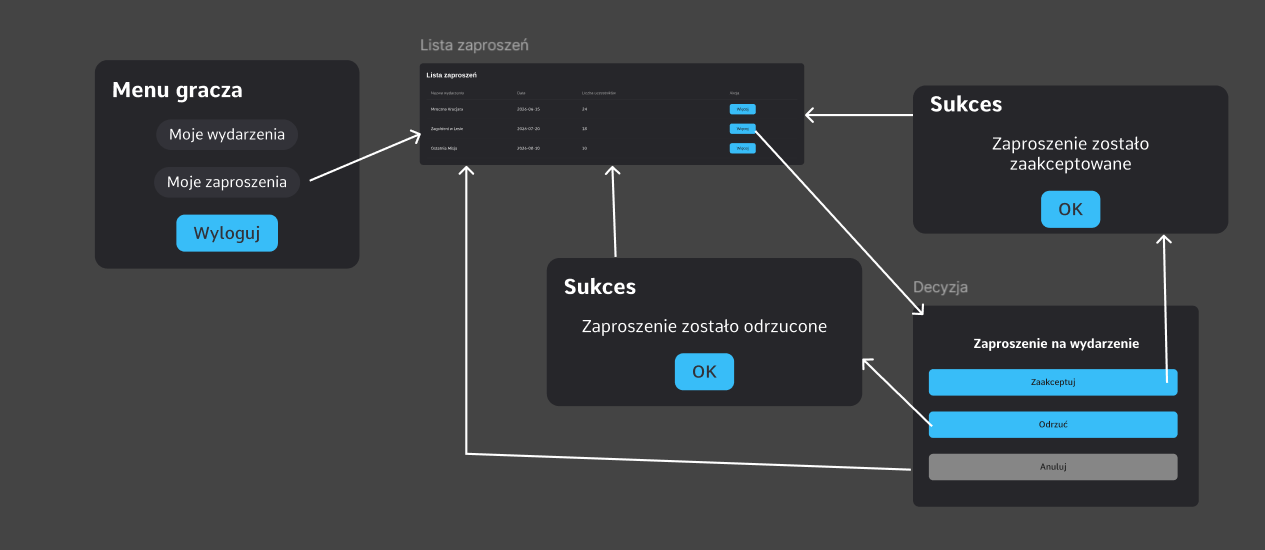
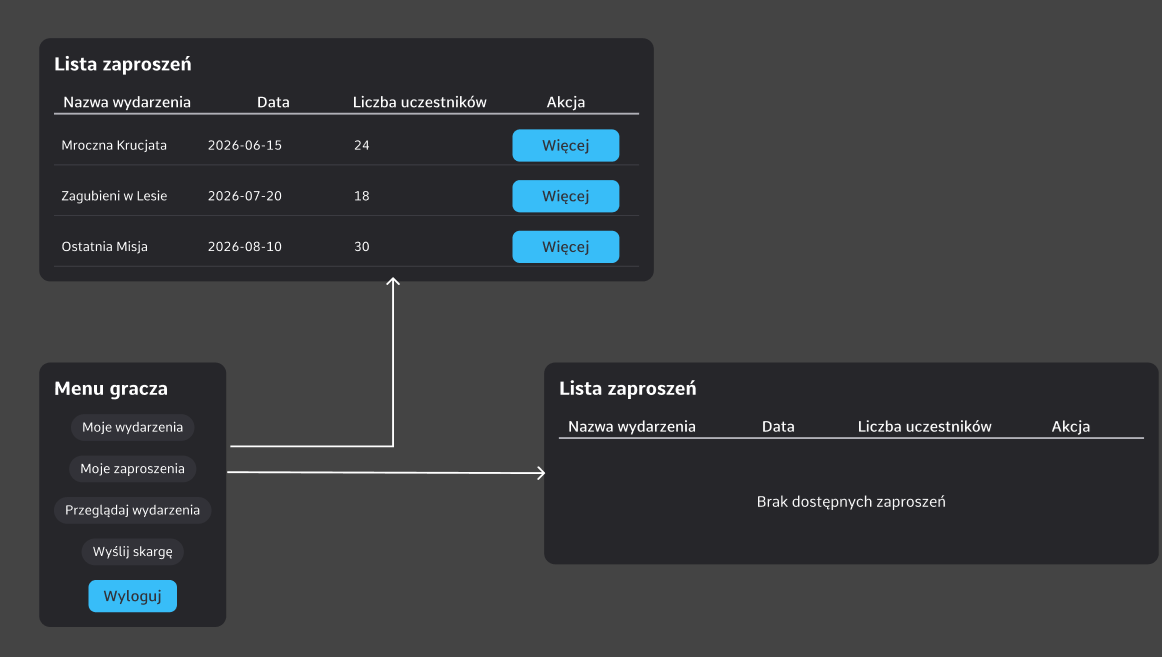
Poprawkki do PU43, PU49

diff --git a/README.md b/README.md
@@ -2577,57 +2577,56 @@ Warunek końcowy: nowy czujnik nie został zarejestrowany dla danej gry
 - Wydanie: 1.0
 - Aktor główny: Twórca gry
 - Warunek początkowy: Twórca gry jest zalogowany w systemie i posiada uprawnienia do tworzenia gier.
-- Warunek końcowy (sukces): Nowa gra zostaje zapisana w systemie ze statusem „Oczekuje na weryfikację", a gra jest widoczna na liście gier twórcy.
+- Warunek końcowy (sukces): Nowa gra zostaje zapisana w systemie ze statusem „Oczekuje na weryfikację".
 
 **Scenariusz główny**
 
-1. Twórca gry wybiera opcję **„Utwórz nową grę”** w Panelu Twórcy.
-2. System wyświetla główny formularz zarządzania grą: **„Definicja gry”**.
-3. Twórca wybiera opcję **„Edytuj podstawowe parametry”**.
-4. System wyświetla formularz **„Podstawowe parametry gry”**.
-5. Twórca wypełnia wymagane pola i klika przycisk **„Zapisz”**.
-6. System waliduje dane i wyświetla komunikat **„Poprawnie zapisano parametry”**.
-7. Twórca klika przycisk **„OK”** na komunikacie sukcesu; system powraca do widoku **„Definicja gry”**.
-8. Twórca klika przycisk **„Zapisz i wyślij”**.
-9. System zapisuje grę ze statusem „Oczekuje na weryfikację”.
-10. System wyświetla komunikat **„Poprawnie zapisano grę i wysłano do recenzenta”**.
-11. Twórca klika przycisk **„OK”**; system przekierowuje go do widoku **„Lista gier”**, gdzie nowa gra jest widoczna.
+1. Twórca gry wybiera opcję **„Utwórz nową grę"** w Panelu Twórcy.
+2. System wyświetla główny formularz zarządzania grą: **„Definicja gry"**.
+3. Twórca wybiera opcję **„Edytuj podstawowe parametry"**.
+4. System wyświetla formularz **„Podstawowe parametry gry"**.
+5. Twórca wypełnia wymagane pola i klika przycisk **„Zapisz"**.
+6. System waliduje dane i wyświetla komunikat **„Poprawnie zapisano parametry"**.
+7. Twórca klika przycisk **„OK"**.
+8. System powraca do widoku **„Definicja gry"**.
+9. Twórca klika przycisk **„Zapisz i wyślij"**.
+10. System zapisuje grę ze statusem „Oczekuje na weryfikację" i wyświetla komunikat **„Poprawnie zapisano grę i wysłano do recenzenta"**.
+11. Twórca klika przycisk **„OK"**.
+12. System przekierowuje twórcę do widoku **„Panel Twórcy"**.
 
 **Scenariusz alternatywny A: Błędne dane w parametrach**
 
 5a. System stwierdza, że dane w formularzu parametrów są nieprawidłowe lub niekompletne.
-1. System wyświetla komunikat **„Błąd: Podane dane są błędne”**.
-2. Twórca klika przycisk **„OK”**.
+1. System wyświetla komunikat **„Błąd: Podane dane są błędne"**.
+2. Twórca klika przycisk **„OK"**.
 3. Formularz parametrów pozostaje otwarty, a błędne pola zostają wyróżnione.
 4. Scenariusz wraca do kroku 5 scenariusza głównego.
 
 **Scenariusz alternatywny B: Definiowanie elementów szczegółowych (Czujniki)**
 
-7a. Twórca chce zdefiniować czujniki dla gry.
-1. Twórca wybiera opcję **„Dodaj nowy czujnik”** w widoku „Definicja gry”.
-2. System wywołuje **PU50: Zdefiniowanie czujnika**.
-3. Po zakończeniu definiowania czujnika system powraca do widoku **„Definicja gry”**.
-4. Scenariusz wraca do kroku 8 scenariusza głównego.
+8b. Twórca wybiera opcję **„Zdefiniuj akcję"** w widoku „Definicja gry".
+1. System wywołuje **PU50: Zdefiniowanie czujnika**.
+2. Po zakończeniu definiowania czujnika system powraca do widoku **„Definicja gry"**.
+3. Scenariusz wraca do kroku 9 scenariusza głównego.
 
 **Scenariusz alternatywny C: Definiowanie elementów szczegółowych (Scenariusz)**
 
-7b. Twórca chce edytować zadania lub mapę w scenariuszu.
-1. Twórca wybiera opcję **„Edytuj scenariusz gry”** w widoku „Definicja gry”.
-2. System wywołuje **PU56: Wyświetlenie scenariusza gry w edytorze**.
-3. Po zakończeniu edycji scenariusza system powraca do widoku **„Definicja gry”**.
-4. Scenariusz wraca do kroku 8 scenariusza głównego.
+8c. Twórca wybiera opcję **„Edytuj scenariusz gry"** w widoku „Definicja gry".
+1. System wywołuje **PU56: Wyświetlenie scenariusza gry w edytorze**.
+2. Po zakończeniu edycji scenariusza system powraca do widoku **„Definicja gry"**.
+3. Scenariusz wraca do kroku 9 scenariusza głównego.
 
 **Scenariusz alternatywny D: Zapis lokalny (bez wysyłki do recenzji)**
 
-8a. Twórca klika przycisk **„Zapisz”**.
-1. System zapisuje grę ze statusem „W edycji”.
-2. System wyświetla komunikat **„Poprawnie zapisano grę”**.
-3. Twórca klika przycisk **„OK”**; system przekierowuje go do widoku **„Lista gier”**.
+9d. Twórca klika przycisk **„Zapisz"**.
+1. System zapisuje grę ze statusem „W edycji" i wyświetla komunikat **„Poprawnie zapisano grę"**.
+2. Twórca klika przycisk **„OK"**.
+3. System przekierowuje twórcę do widoku **„Panel Twórcy"**.
 
 **Scenariusz alternatywny E: Anulowanie tworzenia gry**
 
-(W dowolnym momencie przebywania w widoku „Definicja gry”) Twórca klika przycisk **„Anuluj”**.
-1. System zamyka formularz i przekierowuje twórcę do widoku **„Panel Twórcy”** bez zapisywania żadnych zmian.
+(W dowolnym momencie przebywania w widoku „Definicja gry") Twórca klika przycisk **„Anuluj"**.
+1. System przekierowuje twórcę do widoku **„Panel Twórcy"** bez zapisywania żadnych zmian.
 
 **Scenopis**
 ![](./scenopisy/PU49_Zdefiniowanie_gry.png)
@@ -2766,41 +2765,21 @@ final: failure
 9a2.1 Twórca gry wybiera opcję zapisu z wyjściem.
 9a2.2 System skacze do kroku 7 scenariusza głównego, ale mapa gry pozostaje oznaczona jako niepoprawna, co uniemożliwia publikację gry do czasu poprawy mapy gry.
 
-## 5.12 [PU43: Wyświetlenie listy zaproszeń](#pu43-wyswietlenie-listy-zaproszen)
+## 5.12 [PU43: Wyświetlenie listy zaproszeń]
 - Wersja: 1.0 (19.05.2026)
 - Odpowiedzialny: Cezary Rybiński
 - Wydanie: 1.0
 - Aktor główny: Gracz
-- Warunek początkowy: Gracz jest zalogowany w systemie i znajduje się w widoku "Menu gracza". Posiada nierozpatrzone zaproszenia na wydarzenia.
-- Warunek końcowy (sukces): System wyświetla listę zaproszeń, a gracz pomyślnie podejmuje decyzję dotyczącą wybranego zaproszenia, po czym wraca do widoku listy.
+- Warunek początkowy: Gracz jest zalogowany w systemie i znajduje się w widoku "Menu gracza".
+- Warunek końcowy (sukces): System wyświetla ekran "Lista zaproszeń".
 
-**Scenariusz główny (Akceptacja zaproszenia)**
+**Scenariusz główny**
 1. Gracz wybiera opcję "Moje zaproszenia" w Menu gracza.
-2. System pobiera dane i wyświetla ekran "Lista zaproszeń", prezentujący tabelę z nierozpatrzonymi zaproszeniami (Nazwa wydarzenia, Data, Liczba uczestników, Akcja).
-3. Gracz klika przycisk "Więcej" w kolumnie akcji przy wybranym zaproszeniu.
-4. System wyświetla okno decyzji "Zaproszenie na wydarzenie" z dostępnymi opcjami: "Zaakceptuj", "Odrzuć" oraz "Anuluj".
-5. Gracz wybiera opcję "Zaakceptuj".
-6. System rejestruje akceptację zaproszenia i wyświetla komunikat o sukcesie: "Zaproszenie zostało zaakceptowane".
-7. Gracz klika przycisk "OK".
-8. System zamyka komunikat i powraca do zaktualizowanego ekranu "Lista zaproszeń" (zaproszenie znika z listy).
+2. System pobiera dane i wyświetla ekran "Lista zaproszeń".
 
-**Scenariusz alternatywny A: Odrzucenie zaproszenia**
+**Scenariusz alternatywny A: Brak zaproszeń**
 
-5a. Gracz wybiera opcję "Odrzuć".
-
-6a. System rejestruje odrzucenie zaproszenia i wyświetla komunikat o sukcesie: "Zaproszenie zostało odrzucone".
-
-7a. Gracz klika przycisk "OK".
-
-8a. System zamyka komunikat i powraca do zaktualizowanego ekranu "Lista zaproszeń" (zaproszenie znika z listy).
-
-**Scenariusz alternatywny B: Anulowanie akcji w oknie decyzji**
-
-5b. Gracz wybiera opcję "Anuluj".
-
-6b. System zamyka okno decyzji bez wprowadzania jakichkolwiek zmian w statusie zaproszenia.
-
-7b. System powraca bezpośrednio do ekranu "Lista zaproszeń".
+2a. System wyświetla ekran "Lista zaproszeń" z komunikatem o braku dostępnych zaproszeń.
 
 **Scenopis**
 ![](./scenopisy/PU43_wyswietlenie_listy_zaproszen.png)